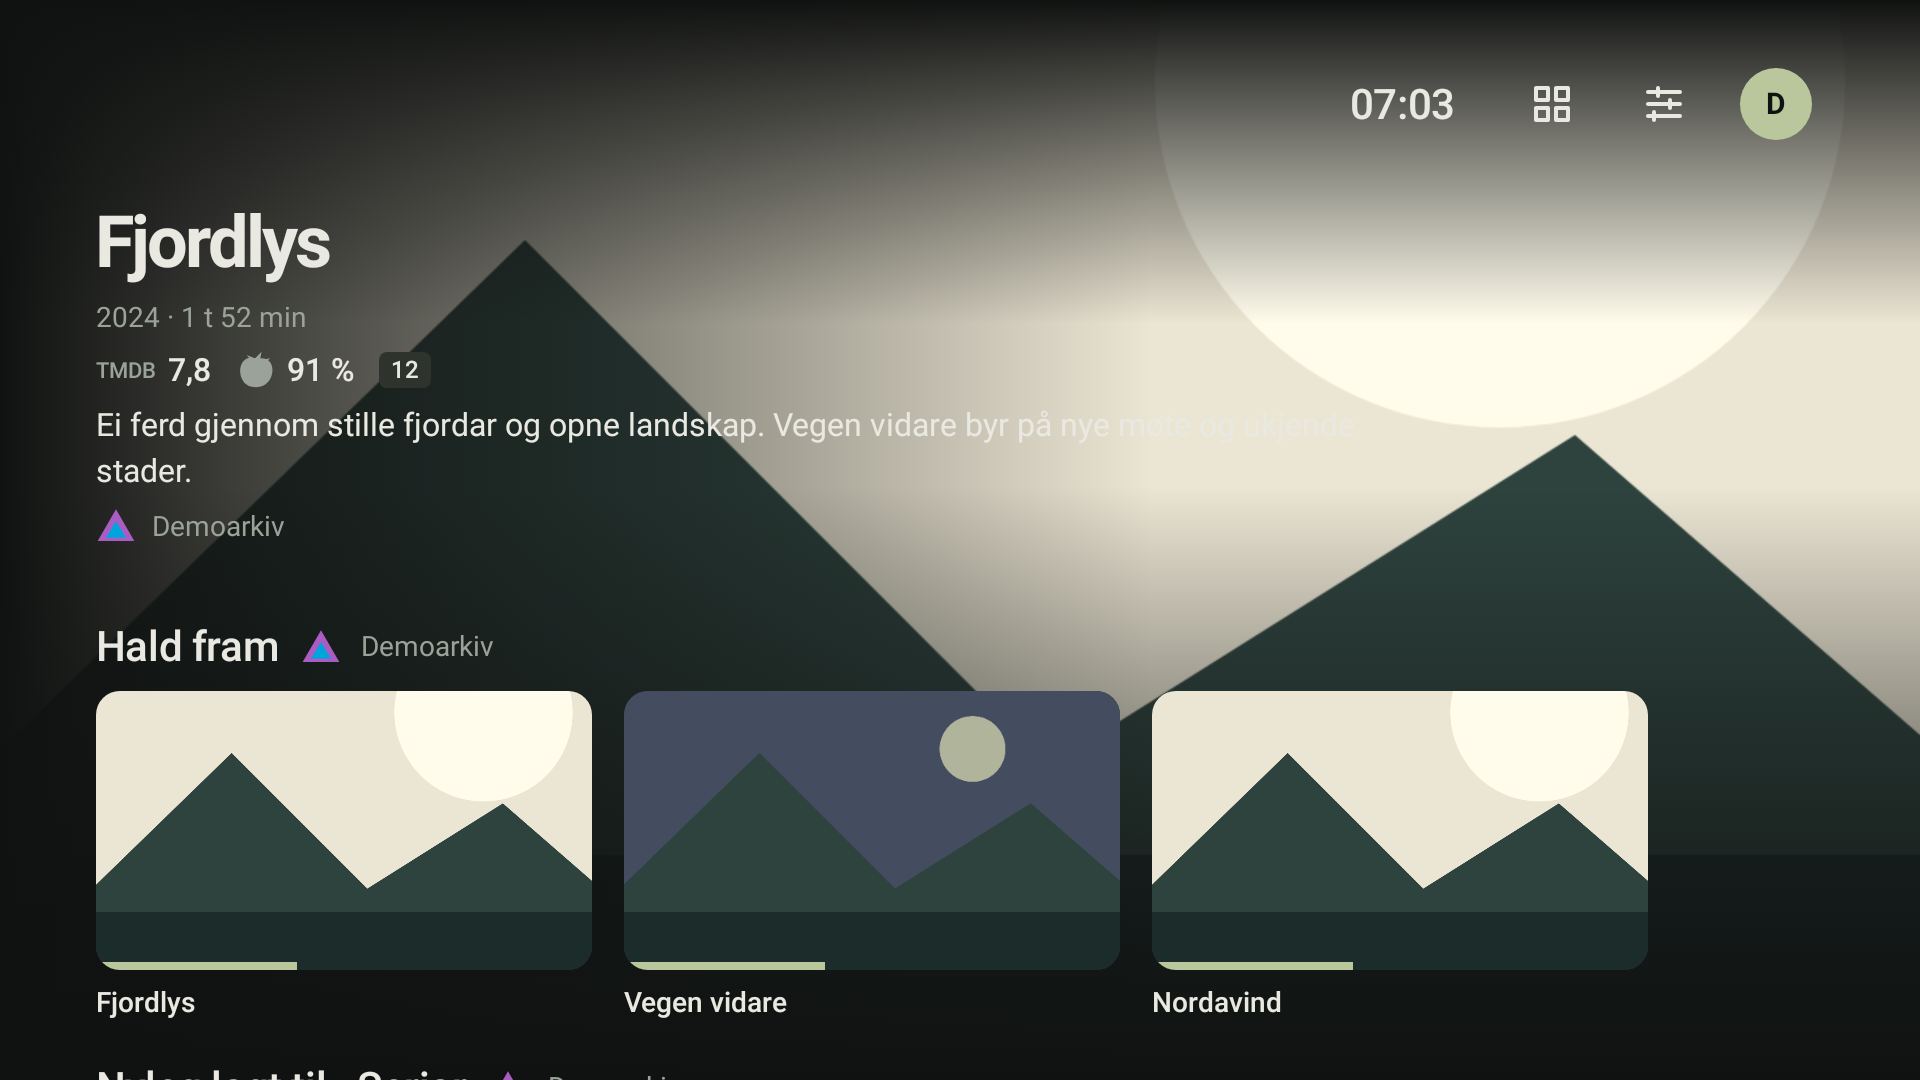
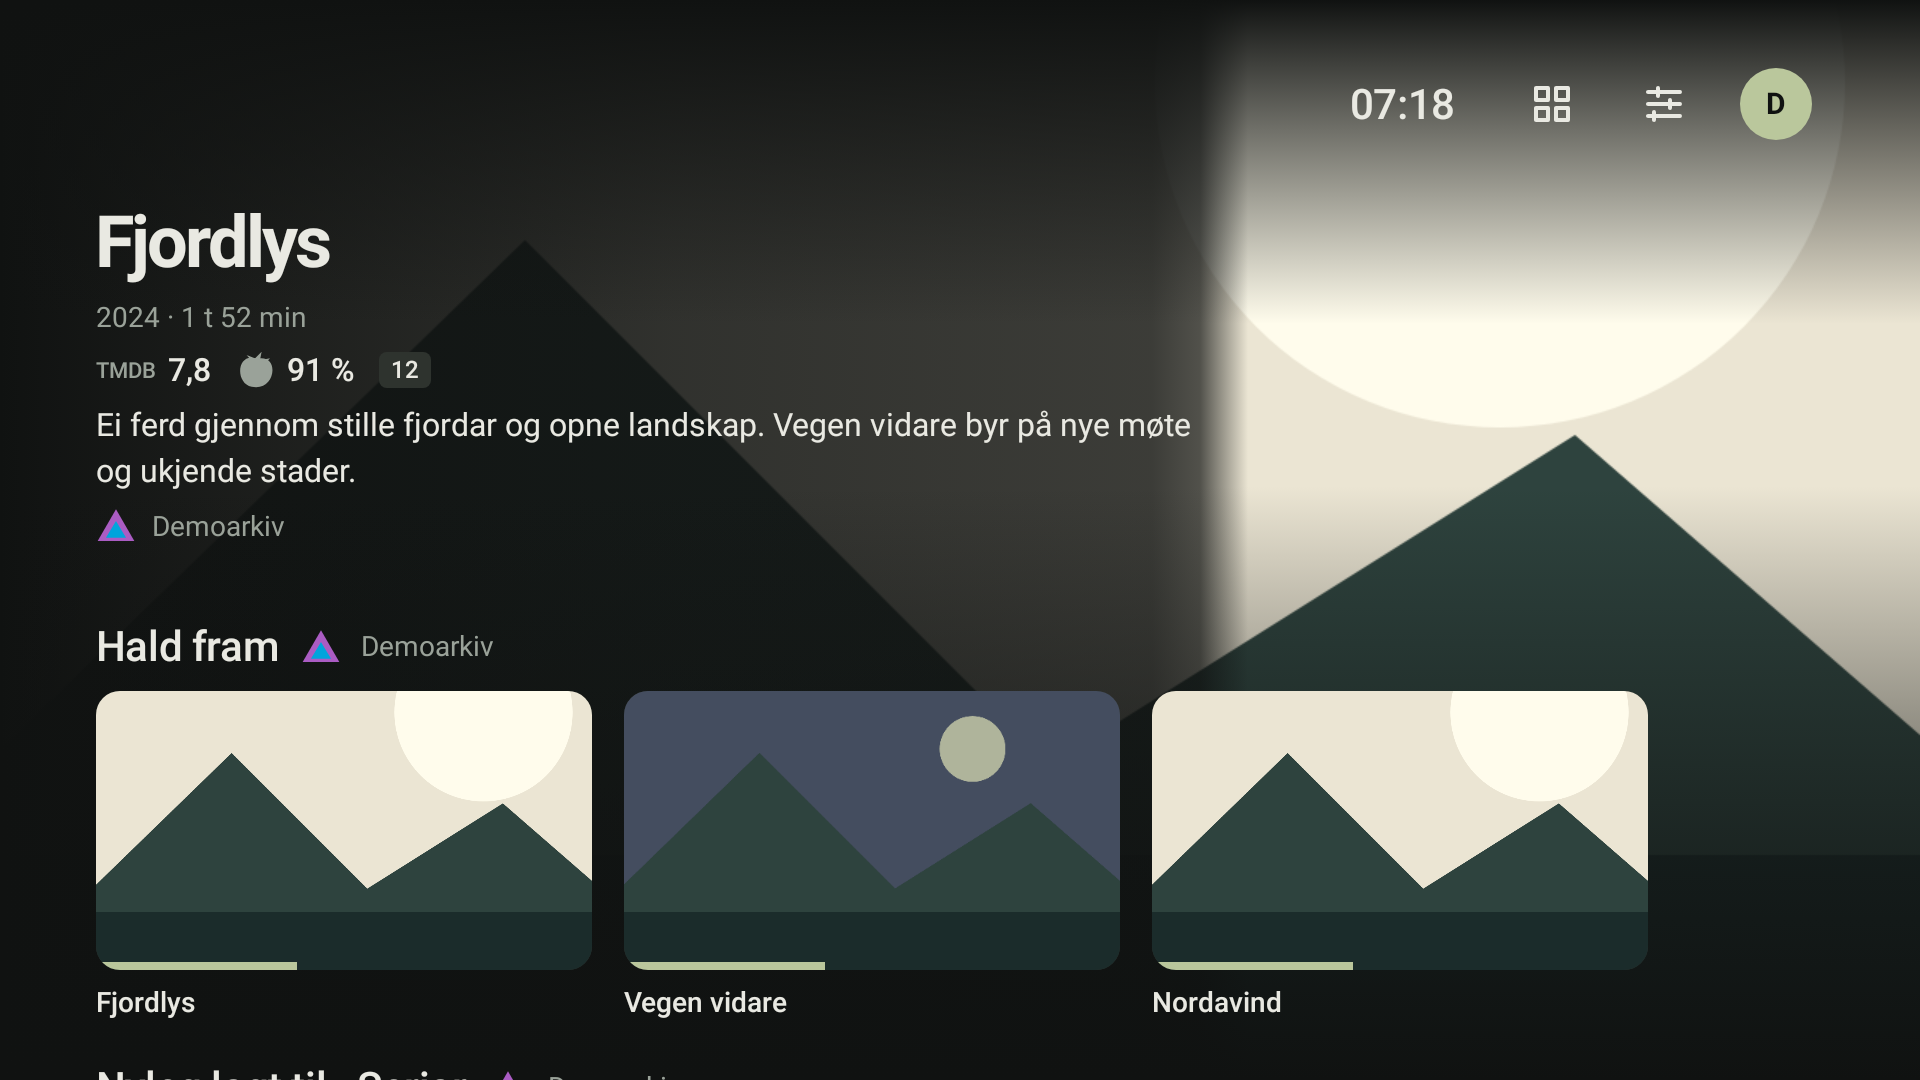
fix(home): bound hero text and strengthen backdrop readability

Changed region(s): [[0.0312, 0.0306, 0.6562, 0.6722], [0.7188, 0.0917, 0.75, 0.1222]]

diff --git a/app/src/test/java/app/stova/home/HeroPanelTest.kt b/app/src/test/java/app/stova/home/HeroPanelTest.kt
@@ -1,6 +1,9 @@
 package app.stova.home
+import androidx.compose.foundation.layout.*
+import androidx.compose.ui.Modifier
 import androidx.compose.ui.test.*
 import androidx.compose.ui.test.junit4.createComposeRule
+import androidx.compose.ui.unit.dp
 import androidx.test.ext.junit.runners.AndroidJUnit4
 import app.stova.TV_QUALIFIERS
 import app.stova.core.theme.StovaTheme
@@ -8,7 +11,9 @@ import app.stova.media.model.*
 import org.junit.*
 import org.junit.runner.RunWith
 import org.robolectric.annotation.Config
+import org.robolectric.annotation.GraphicsMode
 @RunWith(AndroidJUnit4::class) @Config(sdk=[30],qualifiers=TV_QUALIFIERS)
+@GraphicsMode(GraphicsMode.Mode.NATIVE)
 class HeroPanelTest {
  @get:Rule val compose=createComposeRule()
  @Test fun showsTitleMetaAndSourceWhenNoLogo() {
@@ -20,5 +25,23 @@ class HeroPanelTest {
   compose.onAllNodesWithText("12").assertCountEquals(1)
   compose.onNodeWithText("12").assertIsDisplayed()
   compose.onNodeWithText("Demoarkiv").assertIsDisplayed()
+ }
+
+ @Test fun entireTextColumnStaysWithin560DpOn960DpScreen() {
+  val title="Fjordlys og den lange ferda gjennom fjordar og ukjende landskap"
+  val overview="Ei ferd gjennom stille fjordar og opne landskap. Vegen vidare byr på nye møte og ukjende stader."
+  val source="Demoarkiv med eit langt kjeldenamn som framleis må halde seg innanfor tekstkolonna"
+  val account=MediaAccount("a","p",ServerKind.JELLYFIN,"s",source,"https://demo.invalid","u","Demo")
+  val item=MediaItem("m","a",ItemType.MOVIE,title,year=2024,runtimeMinutes=112,overview=overview,ratings=Ratings(7.84,91,"12"))
+  compose.setContent { StovaTheme {
+   Box(Modifier.fillMaxSize()) { HeroPanel(FocusedTarget.Media(item,account),Modifier.fillMaxWidth()) }
+  } }
+  compose.onRoot().assertWidthIsEqualTo(960.dp)
+  listOf(title,"2024 · 1 t 52 min","TMDB","7,8",app.stova.media.ui.criticText(91,java.util.Locale.forLanguageTag("nn")),"12",overview,source).forEach { text ->
+   val node=compose.onNodeWithText(text).assertIsDisplayed()
+   val bounds=node.getUnclippedBoundsInRoot()
+   Assert.assertTrue("Hero text must be at most 560 dp wide: $text ($bounds)",bounds.right-bounds.left<=560.dp)
+   Assert.assertTrue("Hero text must stay inside the 560 dp column: $text ($bounds)",bounds.left>=48.dp && bounds.right<=608.dp)
+  }
  }
 }

diff --git a/app/src/main/java/app/stova/home/HeroPanel.kt b/app/src/main/java/app/stova/home/HeroPanel.kt
@@ -15,7 +15,8 @@ import coil3.compose.AsyncImage
 import coil3.request.ImageRequest
 @Composable fun HeroPanel(target:FocusedTarget?,modifier:Modifier=Modifier) {
  val large=LocalDensity.current.fontScale>=1.5f
- Column(modifier.fillMaxWidth().padding(horizontal=StovaLayout.TvSafeEdge,vertical=16.dp),verticalArrangement=Arrangement.spacedBy(8.dp,Alignment.Bottom)) {
+ Box(modifier.fillMaxWidth().padding(horizontal=StovaLayout.TvSafeEdge,vertical=16.dp),contentAlignment=Alignment.BottomStart) {
+ Column(Modifier.widthIn(max=560.dp).fillMaxWidth(),verticalArrangement=Arrangement.spacedBy(8.dp)) {
   when(target) {
    is FocusedTarget.Media -> {
     val item=target.item;val logo=item.art.logo
@@ -28,11 +29,12 @@ import coil3.request.ImageRequest
     } }
     Text(parts.joinToString(" · "),style=MaterialTheme.typography.bodyMedium,color=MaterialTheme.colorScheme.onSurfaceVariant)
     RatingRow(item.ratings)
-    if(!large) item.overview?.let { Text(it,Modifier.widthIn(max=680.dp),style=MaterialTheme.typography.bodyLarge,color=MaterialTheme.colorScheme.onSurface,maxLines=2,overflow=TextOverflow.Ellipsis) }
+    if(!large) item.overview?.let { Text(it,style=MaterialTheme.typography.bodyLarge,color=MaterialTheme.colorScheme.onSurface,maxLines=2,overflow=TextOverflow.Ellipsis) }
     Row(horizontalArrangement=Arrangement.spacedBy(8.dp),verticalAlignment=Alignment.CenterVertically) { ServiceLogo(target.account.kind);Text(target.account.serverName,style=MaterialTheme.typography.bodyMedium,color=MaterialTheme.colorScheme.onSurfaceVariant) }
    }
    is FocusedTarget.App -> Text(target.label,style=MaterialTheme.typography.displaySmall,color=MaterialTheme.colorScheme.onSurface)
    null -> Text(stringResource(when(java.time.LocalTime.now().hour) { in 5..9 -> R.string.greeting_morning;in 10..16 -> R.string.greeting_day;in 17..21 -> R.string.greeting_evening;else -> R.string.greeting_night }),style=MaterialTheme.typography.displaySmall,color=MaterialTheme.colorScheme.onSurface)
   }
+ }
  }
 }

diff --git a/app/src/test/java/app/stova/AppScreensTest.kt b/app/src/test/java/app/stova/AppScreensTest.kt
@@ -236,6 +236,13 @@ class AppScreensTest {
         val foreground = android.graphics.Color.rgb(233, 233, 226)
         val contrast = ColorUtils.calculateContrast(foreground, skyBehindTopBar)
         assertTrue("Top bar contrast over bright art: $contrast (expected >= 6)", contrast >= 6.0)
+        // Bright sky at 35% width, below the top scrim and clear of text/mountains.
+        val skyBehindHero = bitmap.getPixel(672, 340)
+        val muted = android.graphics.Color.rgb(154, 162, 153)
+        assertTrue("Hero text contrast over bright art", ColorUtils.calculateContrast(foreground, skyBehindHero) >= 6.0)
+        assertTrue("Hero metadata/score contrast over bright art", ColorUtils.calculateContrast(muted, skyBehindHero) >= 4.5)
+        // Just above the final words of the first overview line, near the column's right edge.
+        assertTrue("Entire overview must remain readable", ColorUtils.calculateContrast(foreground, bitmap.getPixel(1180, 400)) >= 6.0)
         // The additional scrim ends at 30%; the right-side sky below it stays bright.
         assertTrue("Bright fixture must actually be loaded", ColorUtils.calculateLuminance(bitmap.getPixel(1900, 380)) > 0.6)
     }

diff --git a/app/src/main/java/app/stova/background/BackdropLayer.kt b/app/src/main/java/app/stova/background/BackdropLayer.kt
@@ -23,7 +23,8 @@ import coil3.request.ImageRequest
    if(image!=null) AsyncImage(ImageRequest.Builder(context).data(image).size(1920,1080).build(),null,Modifier.fillMaxSize(),contentScale=ContentScale.Crop)
   }
   Canvas(Modifier.fillMaxSize()) {
-   drawRect(Brush.horizontalGradient(listOf(ink,ink.copy(alpha=0f)),endX=size.width*0.6f))
+   // Hold the scrim under the entire bounded hero column before fading into the artwork.
+   drawRect(Brush.horizontalGradient(0f to ink,0.35f to ink.copy(alpha=0.85f),0.6f to ink.copy(alpha=0.8f),0.625f to ink.copy(alpha=0.7f),0.65f to ink.copy(alpha=0f)))
    drawRect(Brush.verticalGradient(listOf(ink.copy(alpha=0f),ink),startY=size.height*0.45f,endY=size.height),topLeft=Offset(0f,size.height*0.45f),size=Size(size.width,size.height*0.55f))
    drawRect(Brush.verticalGradient(listOf(ink,ink.copy(alpha=0f)),endY=size.height*0.3f),size=Size(size.width,size.height*0.3f))
   }

diff --git a/docs/HANDOFF.md b/docs/HANDOFF.md
@@ -1,4 +1,8 @@
 # Cache og finpuss
+2026-10-25: Hero-lesbarheit er fullført med raud/grøn TDD: heile tekstkolonna er maks 560 dp ved 960 dp skjerm; flat Ink-scrim har 100 % ved venstre kant, 85 % ved 35 %, 80 % ved 60 %, 70 % ved 62,5 % og 0 % ved 65 %. Ekstra fargestopp held slutten av omtalen lesbar; tre stopp åleine gav for låg kontrast.
+Verifisering: `testDebugUnitTest --tests app.stova.AppScreensTest '-Pstova.screens=true'` → 12/12; deretter `testDebugUnitTest lintDebug assembleDebug '-Pstova.screens=true'` → 265/265, ingen hoppa over, DesignRulesTest 3/3, lint 0 feil (20 åtvaringar, 1 hint), debug-APK OK. Alle kall via `pwsh -NoProfile -File scripts/gradle.ps1`.
+Oppdaterte/lagra og visuelt kontrollerte bilete: `docs/images/cache-home-bright-backdrop.png` og `docs/images/cache-home-dark-backdrop.png` (1920 × 1080); kjelder `app/build/screens/13-home-bright-backdrop.png` og `09-home-media-hero.png`. Ingen påbyrja steg står att; ekte Shield er ikkje verifisert. Berre `polish`/`polish-cache` er endra; ingen push.
+
 2026-10-25: Alle fire bestilte punkt er fullførte med raud/grøn TDD i `polish` på `polish-cache`; ingen påbyrja steg står att.
 HA-cache: `a6856d9` (berre aktivt kortutval og nødvendige attributt/tidsstempel, aldri token, maks éi skriving per 5 s, tomme ferske svar ryddar cachen). Førehandslasting: `cd53232` (3 første titlar per rad, unike URL-ar, maks 12, Coil 1920 × 1080).
 Toppscrim: `1928c0c` (flat Ink-gradient øvst i 30 %). Smarthus-status er sentrert i denne committen, verifisert ved skriftstorleik 1 og 2.
